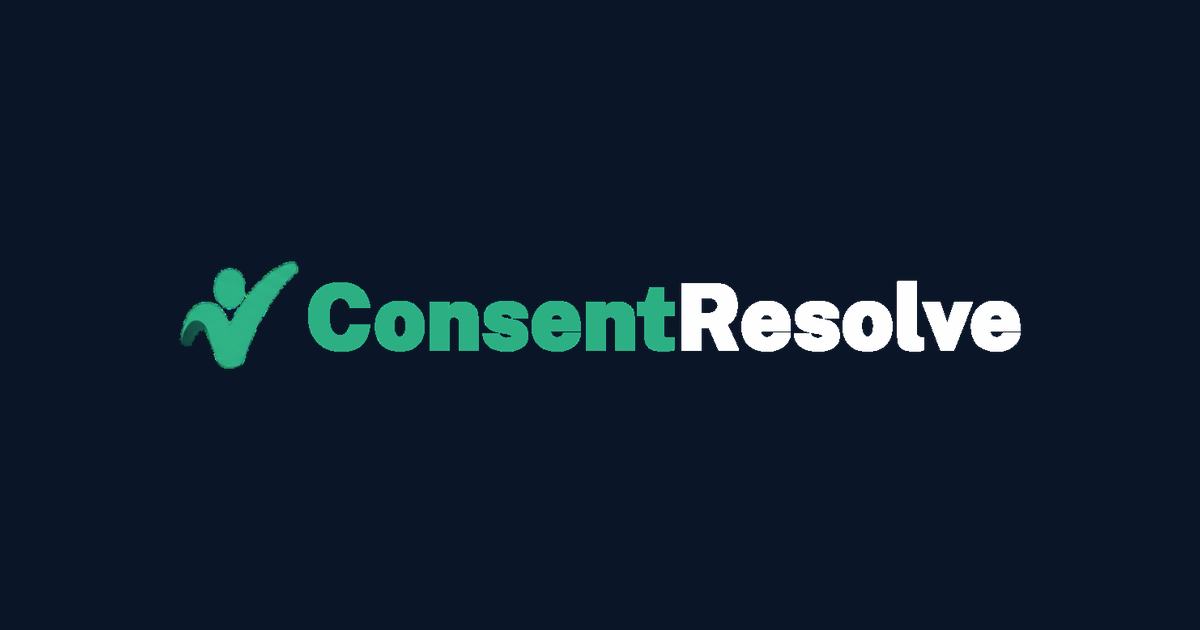
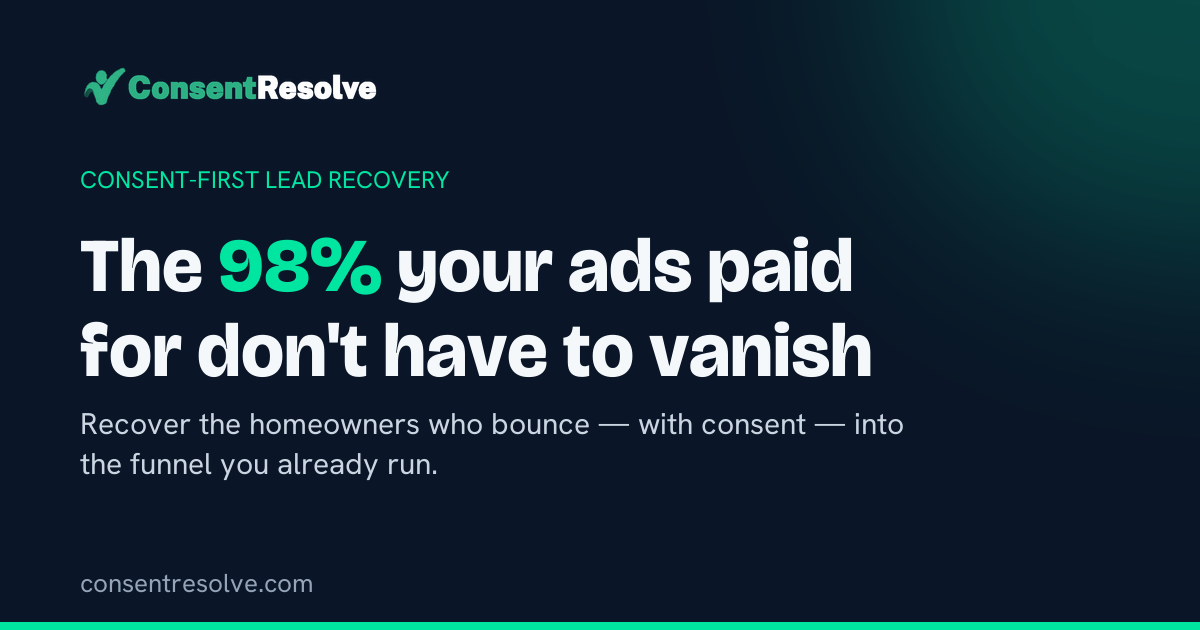
OG images + title pass: distinct social cards site-wide, de-priced titles
OG images (1200x630, navy/mint brand, logo, headline + subline):
- Replace bare-logo og-default.png with a real value-prop default
- New branded OG for 12 key marketing pages (home, features, how-it-works,
  pricing, about, why-consent-first, faq, contact, stats, lead-math, demo,
  industries), wired via the SEO ogImage prop
- New per-trade OG for all 17 industry pages — clean brand card + the real
  trade illustration (rasterized from the site SVGs via qlmanage) on a white
  inset, wired in [slug].astro
- Resource posts (240) already had wired OGs — left as-is
- New generator: scripts/gen_og.py

Titles (og:title = page <title>; readability-first, no pricing, AEO):
- pricing: drop "$7 Flat per Recovered Homeowner Lead" -> "One Flat Rate per
  Exclusive Lead" (no pricing in any meta title now)
- faq: "Frequently Asked Questions" -> "Consent Resolve FAQ — Leads, Legality
  & How It Works" (answer-engine friendly)
- how-it-works: trim long title to "Anonymous Visitor to Booked Job"
- industries: standardize all 17 titleTags to "Exclusive {Trade} Leads, Never
  Resold | Consent Resolve" (7 were missing the differentiator)

diff --git a/src/data/industries.ts b/src/data/industries.ts
@@ -60,7 +60,7 @@ export const INDUSTRIES: Industry[] = [
     iconKey: "IconBuildingCommunity",
     illustration: "/illustrations/trades/01-general-contractor.svg",
     cardCopy: "Catch the homeowners pricing a remodel, addition, or whole-house renovation before they call three other GCs. Real names, real budgets, $7 per exclusive general-contractor lead — never resold.",
-    titleTag: "Exclusive General Contractor Leads | Consent Resolve",
+    titleTag: "Exclusive General Contractor Leads, Never Resold | Consent Resolve",
     metaDescription: "Identify the homeowners pricing a remodel or addition on your site — only after they consent. Real names and emails, yours alone. Flat $7 a lead, no contract.",
     keywords: "general contractor leads, remodeling leads, home addition leads, GC lead generation",
     aeoAnswer: "General contractors get exclusive leads with Consent Resolve by identifying the homeowners already researching a remodel or addition on their website. After the homeowner consents, you get a recovered record fed into your funnel. Each lead is yours alone — never resold — for $7.",
@@ -108,7 +108,7 @@ export const INDUSTRIES: Industry[] = [
     iconKey: "IconTrees",
     illustration: "/illustrations/trades/03-tree-removal.svg",
     cardCopy: "Storm cleanup, dead-tree removal, and stump grinding shoppers — identified the moment they consent on your site. One big removal pays for months of $7 exclusive tree-service leads.",
-    titleTag: "Exclusive Tree Removal Leads | Consent Resolve",
+    titleTag: "Exclusive Tree Removal Leads, Never Resold | Consent Resolve",
     metaDescription: "Identify the homeowners pricing tree removal or storm cleanup on your site — only after they consent. Real names and emails, yours alone. Flat $7 a lead, no contract.",
     keywords: "tree removal leads, tree service leads, storm cleanup leads, arborist lead generation",
     aeoAnswer: "Tree services get exclusive leads with Consent Resolve by identifying the homeowners already pricing a removal or storm cleanup on their site. After they consent, the recovered record drops into your funnel. Leads are exclusive — yours alone — for $7.",
@@ -276,7 +276,7 @@ export const INDUSTRIES: Industry[] = [
     iconKey: "IconFence",
     illustration: "/illustrations/trades/10-deck-fence.svg",
     cardCopy: "Deck-build, fence-replace, and pergola shoppers captured the moment they consent. Real names, real budgets, $7 per exclusive deck and fence lead — never blasted to four other crews.",
-    titleTag: "Exclusive Deck & Fence Leads | Consent Resolve",
+    titleTag: "Exclusive Deck & Fence Leads, Never Resold | Consent Resolve",
     metaDescription: "See the homeowners pricing a new deck or fence on your site — only after they consent. Real names and emails, yours alone. Flat $7 a lead, no contract.",
     keywords: "deck building leads, fence installation leads, deck and fence leads, contractor lead generation",
     aeoAnswer: "Deck and fence builders get exclusive leads with Consent Resolve by identifying the homeowners already pricing a build on their site. After they consent, you get a recovered record routed into your funnel and quote. Leads are yours alone for $7.",
@@ -324,7 +324,7 @@ export const INDUSTRIES: Industry[] = [
     iconKey: "IconFridge",
     illustration: "/illustrations/trades/12-appliance-repair.svg",
     cardCopy: "Fridge, washer, dryer, and oven-repair homeowners shopping your service area — fed into your funnel the moment they consent. $7 per exclusive appliance-repair lead, never shared.",
-    titleTag: "Exclusive Appliance Repair Leads | Consent Resolve",
+    titleTag: "Exclusive Appliance Repair Leads, Never Resold | Consent Resolve",
     metaDescription: "See the homeowners shopping your site for a fridge, washer, or oven repair — only after they consent. Real names and emails, yours alone. Flat $7 a lead, no contract.",
     keywords: "appliance repair leads, refrigerator repair leads, washer repair leads, appliance lead generation",
     aeoAnswer: "Appliance repair techs get exclusive leads with Consent Resolve by identifying the homeowners already shopping their site for a fix. After they consent, you get a recovered record routed into your funnel and schedule the visit. Leads are yours alone for $7.",
@@ -348,7 +348,7 @@ export const INDUSTRIES: Industry[] = [
     iconKey: "IconSparkles",
     illustration: "/illustrations/trades/13-house-cleaning.svg",
     cardCopy: "Recurring-clean, deep-clean, and move-out shoppers identified the moment they say yes on your site. $7 per exclusive cleaning lead — never auctioned to four other crews racing for the same job.",
-    titleTag: "Exclusive House Cleaning Leads | Consent Resolve",
+    titleTag: "Exclusive House Cleaning Leads, Never Resold | Consent Resolve",
     metaDescription: "See the homeowners shopping your site for a recurring clean, deep clean, or move-out — only after they consent. Real names and emails, yours alone. Flat $7 a lead, no contract.",
     keywords: "house cleaning leads, maid service leads, recurring cleaning leads, cleaning lead generation",
     aeoAnswer: "House cleaning businesses get exclusive leads with Consent Resolve by identifying the homeowners already shopping their site for a clean. After they consent, you get a recovered record routed into your funnel and book. Leads are yours alone for $7 — and a recurring client is worth them many times over.",
@@ -396,7 +396,7 @@ export const INDUSTRIES: Industry[] = [
     iconKey: "IconSpray",
     illustration: "/illustrations/trades/15-power-washing.svg",
     cardCopy: "Driveway, house-wash, deck, and soft-wash-roof shoppers — recovered at consent and dropped into your funnel. $7 per recovered power-washing lead, with a verified service-area pin baked in.",
-    titleTag: "Exclusive Power Washing Leads | Consent Resolve",
+    titleTag: "Exclusive Power Washing Leads, Never Resold | Consent Resolve",
     metaDescription: "See the homeowners shopping your site for driveway, house, or deck washing — only after they consent. Real names and emails, yours alone. Flat $7 a lead, no contract.",
     keywords: "power washing leads, pressure washing leads, exterior cleaning leads, power washing lead generation",
     aeoAnswer: "Power washing businesses get exclusive leads with Consent Resolve by identifying the homeowners already pricing a wash on their site. After they consent, you get a recovered record routed into your funnel and quote. Leads are yours alone for $7.",
@@ -444,7 +444,7 @@ export const INDUSTRIES: Industry[] = [
     iconKey: "IconCar",
     illustration: "/illustrations/trades/17-mobile-car-service.svg",
     cardCopy: "Mobile-detail, on-site oil-change, and roadside-repair shoppers — captured the moment they consent on your site. $7 per exclusive mobile-car-service lead, with name, consented email, and service area.",
-    titleTag: "Exclusive Mobile Mechanic & Detail Leads | Consent Resolve",
+    titleTag: "Exclusive Mobile Mechanic Leads, Never Resold | Consent Resolve",
     metaDescription: "See the drivers shopping your site for mobile repair or detailing — only after they consent. Real names and emails, yours alone. Flat $7 a lead, no contract.",
     keywords: "mobile mechanic leads, mobile detailing leads, mobile car service leads, auto service lead generation",
     aeoAnswer: "Mobile car services get exclusive leads with Consent Resolve by identifying the drivers already shopping their site for at-home repair or detailing. After they consent, you get a recovered record routed into your funnel and schedule. Leads are yours alone for $7.",

diff --git a/scripts/gen_og.py b/scripts/gen_og.py
@@ -1,0 +1,201 @@
+#!/usr/bin/env python3
+"""Branded Open Graph image generator (1200x630) for Consent Resolve.
+Navy/mint brand, ConsentResolve logo, a bold readable headline + subline, and an
+optional right-side icon/illustration. Used for og:image + twitter:image so every
+shared page has a distinctive, readable social card (not just the bare logo).
+
+Generates: default + key marketing pages + 17 industries + every blog post.
+  python3 scripts/gen_og.py            # build everything into public/og/
+  python3 scripts/gen_og.py default    # just the default
+"""
+import sys, re, glob, html, os, subprocess
+from pathlib import Path
+import numpy as np
+from PIL import Image, ImageDraw, ImageFont, ImageFilter
+
+ROOT = Path("/Users/aaronphillips/GIT/consentresolve2")
+BRI = str(ROOT / "scripts/.fonts/Bricolage.ttf")   # display
+HAN = str(ROOT / "scripts/.fonts/Hanken.ttf")       # body
+LOGO = ROOT / "public/logo-on-dark.png"
+TRADE_SVG = ROOT / "public/illustrations/trades"    # per-trade illustration SVGs
+ICONCACHE = Path("/tmp/trade_icons"); ICONCACHE.mkdir(parents=True, exist_ok=True)
+
+
+def trade_art(slug):
+    """Rasterize the site's trade illustration SVG via macOS Quick Look, knock the
+    near-white background out to transparent, crop to content. Returns RGBA or None."""
+    cache = ICONCACHE / f"{slug}.png"
+    if cache.exists():
+        return Image.open(cache).convert("RGBA")
+    matches = sorted(glob.glob(str(TRADE_SVG / f"*-{slug}.svg")))
+    if not matches:
+        return None
+    tmp = ICONCACHE / "_ql"; tmp.mkdir(exist_ok=True)
+    for f in glob.glob(str(tmp / "*.png")):
+        os.remove(f)
+    subprocess.run(["qlmanage", "-t", "-s", "2048", "-o", str(tmp), matches[0]], capture_output=True)
+    pngs = glob.glob(str(tmp / "*.png"))
+    if not pngs:
+        return None
+    img = Image.open(pngs[0]).convert("RGBA")
+    arr = np.asarray(img).astype(np.uint8)
+    rgb, a = arr[..., :3], arr[..., 3].copy()
+    near_white = (rgb[..., 0] >= 244) & (rgb[..., 1] >= 244) & (rgb[..., 2] >= 244)
+    a[near_white] = 0
+    im = Image.fromarray(np.dstack([rgb, a]))
+    bbox = im.getbbox()
+    im = im.crop(bbox) if bbox else im
+    im.save(cache)
+    return im
+OUT = ROOT / "public/og"; OUT.mkdir(parents=True, exist_ok=True)
+(OUT / "blog").mkdir(parents=True, exist_ok=True)
+
+W, H = 1200, 630
+NAVY = (10, 22, 40); MINT = (0, 229, 160); WHITE = (245, 248, 250); SLATE = (203, 213, 225)
+PAD = 80
+
+def font(path, sz): return ImageFont.truetype(path, sz)
+
+def wrap(draw, text, fnt, max_w):
+    words, lines, cur = text.split(), [], ""
+    for w in words:
+        t = (cur + " " + w).strip()
+        if draw.textlength(t, font=fnt) <= max_w: cur = t
+        else:
+            if cur: lines.append(cur)
+            cur = w
+    if cur: lines.append(cur)
+    return lines
+
+def base():
+    img = Image.new("RGB", (W, H), NAVY)
+    # mint radial glow, top-right
+    glow = Image.new("RGBA", (W, H), (0, 0, 0, 0))
+    ImageDraw.Draw(glow).ellipse([W - 380, -260, W + 300, 320], fill=(*MINT, 60))
+    img = Image.alpha_composite(img.convert("RGBA"), glow.filter(ImageFilter.GaussianBlur(120))).convert("RGB")
+    # subtle bottom-left navy vignette already dark; add a faint mint hairline at very bottom
+    d = ImageDraw.Draw(img)
+    d.rectangle([0, H - 8, W, H], fill=MINT)
+    return img
+
+def put_logo(img):
+    try:
+        lg = Image.open(LOGO).convert("RGBA")
+        lw = 300; lh = int(lg.height * lw / lg.width)
+        img.paste(lg.resize((lw, lh), Image.LANCZOS), (PAD, 64), lg.resize((lw, lh), Image.LANCZOS))
+    except Exception as e:
+        print("logo skip:", e)
+
+def put_icon(img, slug):
+    """Right-side trade illustration on a floating white inset (matches how the
+    site/resource cards present illustrations), so the navy-outlined art reads."""
+    ic = trade_art(slug)
+    if ic is None:
+        return 0
+    ps = 380; panel_x, panel_y = W - ps - 56, (H - ps) // 2
+    ov = Image.new("RGBA", (W, H), (0, 0, 0, 0))   # single overlay, pasted onto the RGB img
+    # soft drop shadow
+    sh = Image.new("RGBA", (W, H), (0, 0, 0, 0))
+    ImageDraw.Draw(sh).rounded_rectangle([panel_x, panel_y + 14, panel_x + ps, panel_y + ps + 14], radius=42, fill=(0, 0, 0, 150))
+    ov.alpha_composite(sh.filter(ImageFilter.GaussianBlur(22)))
+    # white panel + mint keyline
+    pd = ImageDraw.Draw(ov)
+    pd.rounded_rectangle([panel_x, panel_y, panel_x + ps, panel_y + ps], radius=42, fill=(248, 250, 252, 255))
+    pd.rounded_rectangle([panel_x, panel_y, panel_x + ps, panel_y + ps], radius=42, outline=(*MINT, 255), width=4)
+    # the artwork, padded inside the panel
+    pad = 46
+    art = ic.copy(); art.thumbnail((ps - 2 * pad, ps - 2 * pad), Image.LANCZOS)
+    ov.alpha_composite(art, (panel_x + (ps - art.width) // 2, panel_y + (ps - art.height) // 2))
+    img.paste(ov, (0, 0), ov)   # composite overlay onto the working RGB image
+    return ps + 90  # occupied right width -> narrower text column
+
+def render(out, kicker, headline, subline, accent=None, slug=None, blog=False):
+    img = base(); put_logo(img)
+    right_occupied = put_icon(img, slug) if slug else 0
+    text_w = (W - 2 * PAD - right_occupied) if right_occupied else int((W - 2 * PAD) * 0.82)
+    d = ImageDraw.Draw(img)
+    y = 220 if not blog else 250
+    # kicker (small uppercase mint)
+    if kicker:
+        kf = font(HAN, 24)
+        d.text((PAD, y - 56), kicker.upper(), font=kf, fill=MINT)
+    # headline (Bricolage bold), wrap; size shrinks if many lines
+    hsz = 76 if not blog else 60
+    hf = font(BRI, hsz)
+    lines = wrap(d, headline, hf, text_w)
+    while len(lines) > (3 if not blog else 4) and hsz > 40:
+        hsz -= 6; hf = font(BRI, hsz); lines = wrap(d, headline, hf, text_w)
+    lh = int(hsz * 1.12)
+    for ln in lines:
+        # optional mint accent word
+        if accent and accent in ln:
+            pre, _, post = ln.partition(accent)
+            x = PAD
+            d.text((x, y), pre, font=hf, fill=WHITE); x += d.textlength(pre, font=hf)
+            d.text((x, y), accent, font=hf, fill=MINT); x += d.textlength(accent, font=hf)
+            d.text((x, y), post, font=hf, fill=WHITE)
+        else:
+            d.text((PAD, y), ln, font=hf, fill=WHITE)
+        y += lh
+    # subline
+    if subline:
+        y += 14; sf = font(HAN, 30)
+        for ln in wrap(d, subline, sf, text_w)[:2]:
+            d.text((PAD, y), ln, font=sf, fill=SLATE); y += 40
+    # footer url
+    d.text((PAD, H - 64), "consentresolve.com", font=font(HAN, 26), fill=(148, 163, 184))
+    img.save(out, quality=92)
+    print("wrote", Path(out).relative_to(ROOT))
+
+# ── Page manifest ─────────────────────────────────────────────────────────────
+KEY_PAGES = {
+    "default":        ("Consent-first lead recovery", "The 98% your ads paid for don't have to vanish", "Recover the homeowners who bounce — with consent — into the funnel you already run.", "98%"),
+    "home":           ("For home-service contractors", "Turn anonymous homeowners into booked jobs", "Identify the visitors who'd otherwise bounce, with consent, and feed them to your CRM.", None),
+    "features":       ("Features", "Anonymous homeowner to booked job", "Consent banner → identity → your CRM. Exclusive, consented leads, never resold.", None),
+    "how-it-works":   ("How it works", "Five steps to a warm inbound call", "Visitor lands, consents, and drops into your retargeting, email, and CRM — in seconds.", None),
+    "pricing":        ("Pricing", "Flat per recovered lead. No contracts.", "Pay only for exclusive, consented leads that are yours alone. Cancel anytime.", None),
+    "about":          ("About", "The consent-first identification company", "Not a shared-lead marketplace. Real names, real consent, one contractor per lead.", None),
+    "why-consent-first": ("Compliance", "Is visitor identification legal?", "Why consent-first is the only safe way — built for TCPA, CIPA, and state privacy laws.", None),
+    "faq":            ("FAQ", "Questions contractors actually ask", "Exclusivity, legality, CRM fit, and how recovered leads reach you fast.", None),
+    "contact":        ("Contact", "Talk to a human", "Questions about recovery, consent, or setup? Reach the team behind Consent Resolve.", None),
+    "stats":          ("Data & sources", "The data behind the story", "The benchmarks, studies, and sources behind every number we publish.", None),
+    "lead-math":      ("The lead math", "What shared leads really cost", "Sold four ways and rarely booked. See the true cost-per-job, both ways.", None),
+    "demo":           ("Live demo", "See it work on yourself", "Register, browse a sample site, consent — and watch the lead land in your inbox.", None),
+    "industries":     ("By trade", "Exclusive leads, built for your trade", "Consent-first lead recovery tuned to how homeowners shop your service.", None),
+}
+
+INDUSTRIES = [
+    ("general-contractor", "General Contractor"), ("handyman", "Handyman"), ("tree-removal", "Tree Removal"),
+    ("hvac", "HVAC & AC"), ("plumber", "Plumbing"), ("locksmith", "Locksmith"), ("electrician", "Electrical"),
+    ("roofing", "Roofing"), ("painter", "Painting"), ("deck-fence", "Deck & Fence"), ("garage-door", "Garage Door"),
+    ("appliance-repair", "Appliance Repair"), ("house-cleaning", "House Cleaning"), ("pest-control", "Pest Control"),
+    ("power-washing", "Power Washing"), ("lawn-care", "Lawn Care"), ("mobile-car-service", "Mobile Mechanic"),
+]
+
+def gen_key():
+    for slug, (kicker, headline, sub, accent) in KEY_PAGES.items():
+        out = (ROOT / "public/og-default.png") if slug == "default" else (OUT / f"{slug}.png")
+        render(out, kicker, headline, sub, accent)
+
+def gen_industries():
+    for slug, name in INDUSTRIES:
+        render(OUT / f"industry-{slug}.png", "Consent-first lead recovery", f"Exclusive {name} Leads", "Recovered from your own traffic — yours alone, never resold.", slug=slug)
+
+def gen_blog():
+    posts = sorted(glob.glob(str(ROOT / "src/content/resources/blog/*.md")))
+    for fp in posts:
+        txt = Path(fp).read_text(errors="ignore")[:1500]
+        mt = re.search(r'(?m)^title:\s*["\']?(.+?)["\']?\s*$', txt)
+        ms = re.search(r'(?m)^slug:\s*["\']?(.+?)["\']?\s*$', txt)
+        if not (mt and ms): continue
+        title = mt.group(1).strip().strip('"\'')
+        title = re.sub(r'^[\'"]|[\'"]$', '', title)
+        slug = ms.group(1).strip().strip('"\'')
+        render(OUT / "blog" / f"{slug}.png", "Consent Resolve · Blog", title, "", blog=True)
+
+if __name__ == "__main__":
+    arg = sys.argv[1] if len(sys.argv) > 1 else "all"
+    if arg in ("all", "default", "key"): gen_key()
+    if arg in ("all", "industries"): gen_industries()
+    if arg in ("all", "blog"): gen_blog()
+    print("OG generation done.")
